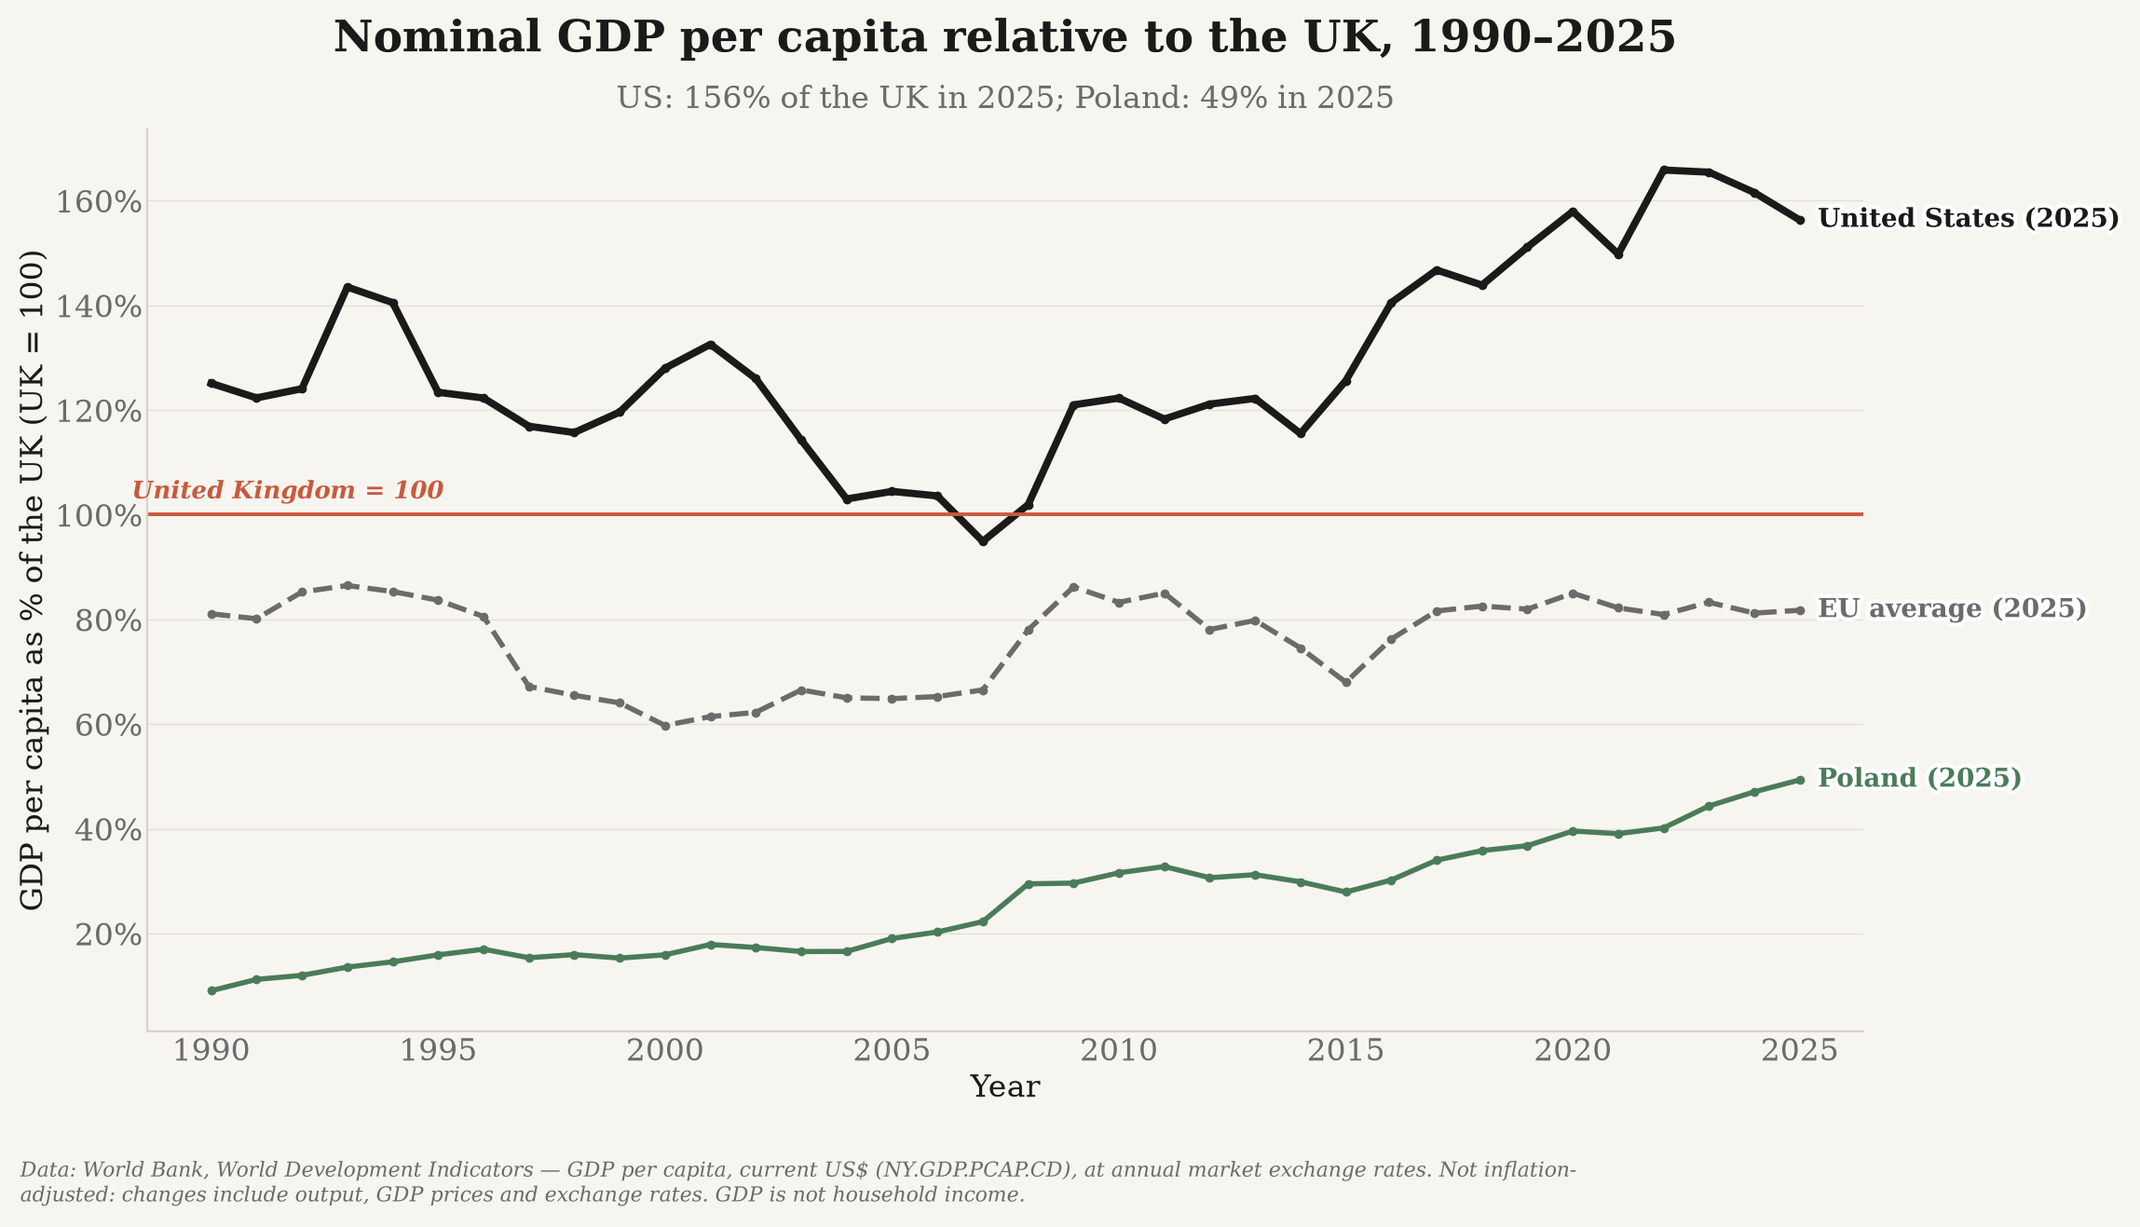
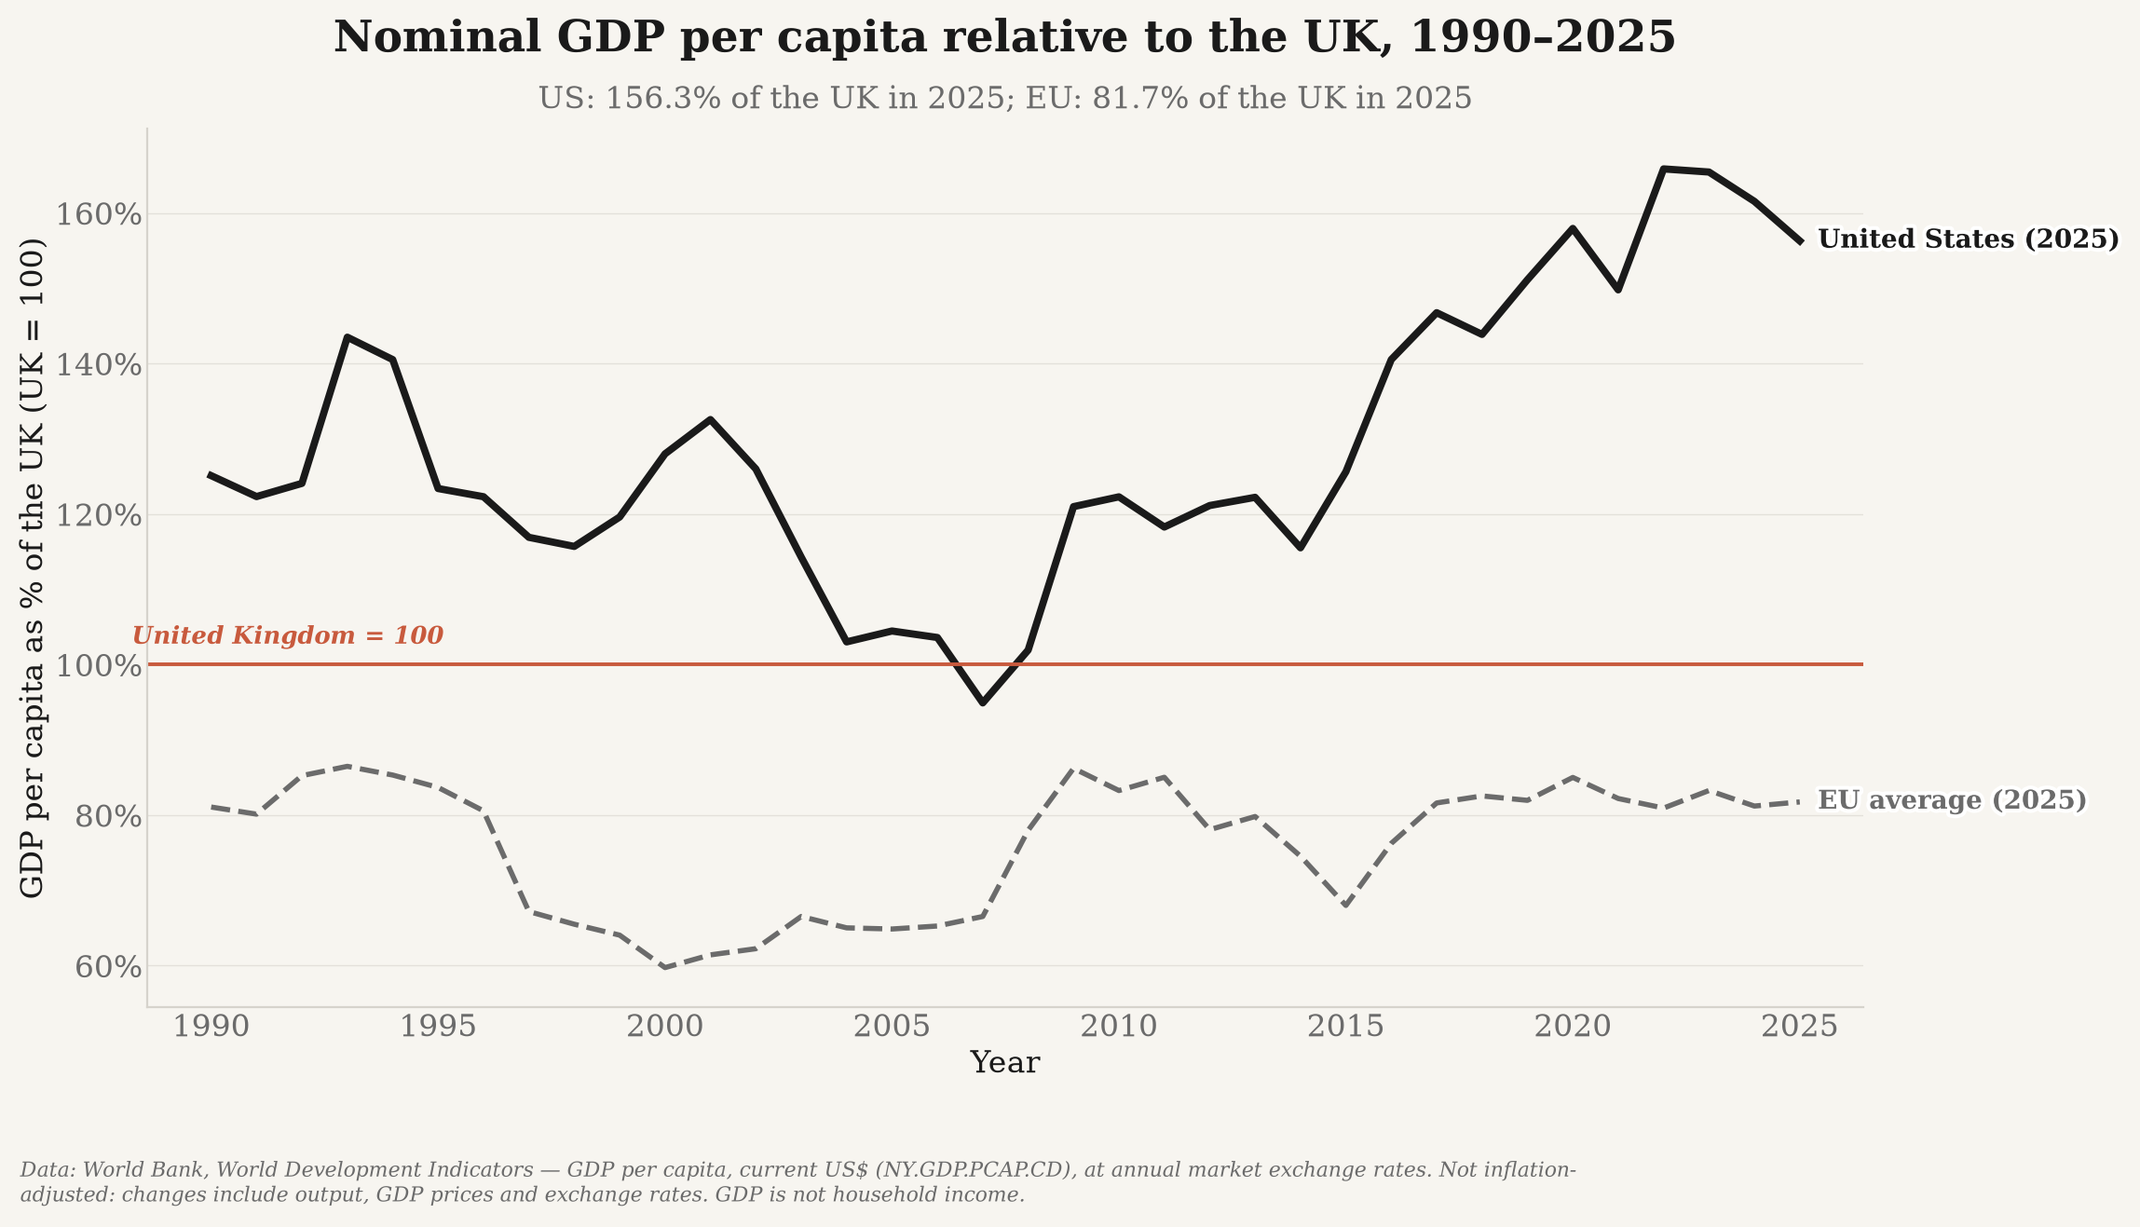
Restore single-panel GDP comparisons with US and EU references

diff --git a/europe_data/plot_uk_decline.py b/europe_data/plot_uk_decline.py
@@ -11,7 +11,9 @@ Figures:
   - gdp_per_capita_real_over_time.png  National-accounts real growth, 2007 = 100
   - gdp_per_capita_nominal_over_time.png  Nominal valuations at annual market FX
   - uk_gdp_relative_to_peers.png       Peer nominal GDP/capita as a share of the UK
-  - uk_gdp_relative_to_peers_simple.png  US, EU and Poland only
+  - uk_gdp_relative_to_peers_simple.png  US and EU nominal GDP, UK = 100
+  - uk_real_gdp_relative_to_peers.png    US and EU real PPP volumes, UK = 100
+  - uk_ppp_gdp_relative_to_peers.png     US and EU current-price PPP GDP, UK = 100
   - median_disposable_income_pps.png   Median income (Eurostat PPS), UK ends ~2018
   - median_disposable_income_oecd.png  Median income (OECD, household-consumption PPP)
   - median_income_pip.png              PIP median income (2021 PPP $/day), UK to ~2021
@@ -194,16 +196,36 @@ def fig_median_income_oecd(df: pd.DataFrame, out: pathlib.Path) -> None:
 
 
 def fig_uk_relative(
-    df: pd.DataFrame, out: pathlib.Path, *, simplified: bool = False,
+    df: pd.DataFrame, out: pathlib.Path, *, simplified: bool = False, basis: str = "nominal",
 ) -> None:
-    metric = NOMINAL_GDP_METRIC
+    metric, title, source, comparison_filename = {
+        "nominal": (
+            NOMINAL_GDP_METRIC, "Nominal GDP per capita relative to the UK",
+            SOURCE_NOMINAL_GDP, "uk_gdp_relative_to_peers_simple.png",
+        ),
+        "real": (
+            "gdp_per_capita_ppp_constant", "Real GDP per person relative to the UK",
+            "Data: World Bank WDI, NY.GDP.PCAP.PP.KD. Constant 2021 international dollars "
+            "(ICP 2021 PPP benchmark): benchmark-valued output volumes, not current market dollars. "
+            "Real output growth at fixed purchasing power parities; annual market FX is not applied. "
+            "Country levels depend on the fixed benchmark; the EU aggregate uses PPP valuation weights.",
+            "uk_real_gdp_relative_to_peers.png",
+        ),
+        "ppp": (
+            "gdp_per_capita_ppp_current", "GDP per person at current PPPs relative to the UK",
+            "Data: World Bank WDI, NY.GDP.PCAP.PP.CD. Current international dollars (ICP 2021 vintage). "
+            "Each year's purchasing power parities and prices, not annual market exchange rates. "
+            "Same-year output comparisons; movements include changing price weights and parity estimates, "
+            "not just real growth. GDP is not household income.",
+            "uk_ppp_gdp_relative_to_peers.png",
+        ),
+    }[basis]
     # Match the coverage of the companion World Bank PPP comparison.
     start = 1990
     uk = _series(df, "United Kingdom", metric).set_index("year")[metric]
     uk = uk[uk.index >= start]
     fig, ax = plt.subplots(figsize=(11.5, 6.5))
 
-    # These are dollar-valued GDP ratios, not household-income or real-growth ratios.
     refs = [
         ("United States", SUBSTACK_TEXT, "-", 2.8, "United States"),
         ("Germany", SUBSTACK_BLUE, "-", 2.0, "Germany"),
@@ -211,45 +233,52 @@ def fig_uk_relative(
         ("European Union", SUBSTACK_MUTED, "--", 2.0, "EU average"),
         ("Poland", SUBSTACK_GREEN, "-", 2.0, "Poland"),
     ]
-    if simplified:
-        refs = [ref for ref in refs if ref[0] not in {"Germany", "France"}]
+    if simplified or basis != "nominal":
+        refs = [ref for ref in refs if ref[0] in {"United States", "European Union"}]
     plotted_years = []
     labels = []
+    ratios = {}
     for country, color, ls, lw, label in refs:
         ref = _series(df, country, metric).set_index("year")[metric]
         ratio = (ref / uk).dropna() * 100.0  # peer as % of the UK
         if ratio.empty:
+            if simplified or basis != "nominal":
+                raise ValueError(f"Missing {country} observations for the {basis} UK comparison")
             continue
         plotted_years.extend(ratio.index)
+        ratios[country] = ratio
         annual = with_year_gaps(ratio)
         ax.plot(annual.index, annual.values, color=color, linewidth=lw, linestyle=ls, label=label,
-                marker="o", markersize=2.5)
+                marker="o" if len(ratio) == 1 else None, markersize=2.5)
         labels.append((ratio.iloc[-1], f"{label} ({ratio.index[-1]})", color))
     if not plotted_years:
         plt.close(fig)
-        raise ValueError("no overlapping nominal GDP observations from 1990 onward")
+        raise ValueError(f"no overlapping {basis} GDP observations from 1990 onward")
     labelled_ends(ax, labels, min_gap=5.0, x=max(plotted_years), fontsize=10)
 
     ax.axhline(100, color=SUBSTACK_ACCENT, linewidth=1.4, linestyle="-")
     ax.text(ax.get_xlim()[0], 102, "United Kingdom = 100", fontsize=9.5,
             color=SUBSTACK_ACCENT, style="italic", fontweight="bold", va="bottom")
 
-    us = ((_series(df, "United States", metric).set_index("year")[metric] / uk).dropna() * 100)
-    pl = ((_series(df, "Poland", metric).set_index("year")[metric] / uk).dropna() * 100)
-
     ax.set_xlabel("Year", labelpad=2)
+    ax.xaxis.set_major_locator(mtick.MaxNLocator(nbins=9, integer=True))
     ax.set_ylabel("GDP per capita as % of the UK (UK = 100)", labelpad=2)
     ax.yaxis.set_major_formatter(mtick.FuncFormatter(lambda v, _: f"{v:.0f}%"))
     # Centered title + centered subtitle (the subtitle carries the two turning-point facts,
     # so it stays aligned under the headline instead of drifting to a corner).
-    ax.set_title(f"Nominal GDP per capita relative to the UK, "
+    ax.set_title(f"{title}, "
                  f"{min(plotted_years)}\u2013{max(plotted_years)}",
                  fontweight="bold", pad=30)
     facts = []
-    if not us.empty:
-        facts.append(f"US: {us.iloc[-1]:.0f}% of the UK in {us.index[-1]}")
-    if not pl.empty:
-        facts.append(f"Poland: {pl.iloc[-1]:.0f}% in {pl.index[-1]}")
+    fact_peers = (
+        (("United States", "US"), ("European Union", "EU"))
+        if simplified or basis != "nominal" else
+        (("United States", "US"), ("Poland", "Poland"))
+    )
+    for country, label in fact_peers:
+        ratio = ratios.get(country)
+        if ratio is not None:
+            facts.append(f"{label}: {ratio.iloc[-1]:.1f}% of the UK in {ratio.index[-1]}")
     if facts:
         ax.text(0.5, 1.015, "; ".join(facts),
                 transform=ax.transAxes, ha="center", va="bottom",
@@ -258,11 +287,11 @@ def fig_uk_relative(
     ax.set_axisbelow(True)
     ax.tick_params(axis="both", pad=2)
     ax.margins(x=0.04)
-    _source_note(fig, SOURCE_NOMINAL_GDP)
+    _source_note(fig, source)
     plt.tight_layout(pad=0.5)
-    plt.subplots_adjust(bottom=0.15)
+    plt.subplots_adjust(bottom=0.17)
     filename = (
-        "uk_gdp_relative_to_peers_simple.png" if simplified else "uk_gdp_relative_to_peers.png"
+        comparison_filename if simplified or basis != "nominal" else "uk_gdp_relative_to_peers.png"
     )
     save_chart(fig, out / filename, dpi=200, bbox_inches="tight")
     plt.close(fig)
@@ -299,6 +328,8 @@ def main(argv: list[str] | None = None) -> int:
     )
     fig_uk_relative(df, out)
     fig_uk_relative(df, out, simplified=True)
+    fig_uk_relative(df, out, simplified=True, basis="real")
+    fig_uk_relative(df, out, simplified=True, basis="ppp")
     fig_median_income_oecd(df, out)
     _line_chart(
         df, "median_disposable_income",

diff --git a/tests/test_gdp_comparisons.py b/tests/test_gdp_comparisons.py
@@ -112,3 +112,54 @@ def test_failed_currency_check_preserves_saved_europe_inputs(frame, tmp_path, mo
         fetch_data.main(["--sources", "worldbank", "--out", str(tmp_path)])
     assert saved.read_text() == "preserved published inputs\n"
     assert not (tmp_path / "gdp_per_capita_ppp.csv").exists()
+
+
+@pytest.mark.parametrize(("basis", "metric", "filename"), [
+    ("nominal", gdp.NOMINAL, "uk_gdp_relative_to_peers_simple"),
+    ("real", gdp.CONSTANT_PPP, "uk_real_gdp_relative_to_peers"),
+    ("ppp", gdp.CURRENT_PPP, "uk_ppp_gdp_relative_to_peers"),
+])
+def test_single_panel_comparisons_retain_us_and_eu_with_correct_measure(
+    tmp_path, monkeypatch, basis, metric, filename,
+):
+    from europe_data import plot_uk_decline as plots
+
+    frame = pd.DataFrame([
+        {"country": country, "year": year, gdp.NOMINAL: nominal,
+         gdp.CONSTANT_PPP: real, gdp.CURRENT_PPP: ppp}
+        for country, nominal, real, ppp in (
+            ("United Kingdom", 50_000, 60_000, 70_000),
+            ("United States", 80_000, 90_000, 100_000),
+            ("European Union", 40_000, 50_000, 60_000),
+            ("Germany", 1, 1, 1), ("France", 1, 1, 1), ("Poland", 1, 1, 1),
+        )
+        for year in (2023, 2025)
+    ])
+    captured = []
+    original = plots.save_chart
+
+    def save(fig, *args, **kwargs):
+        captured.append(fig)
+        original(fig, *args, **kwargs)
+
+    monkeypatch.setattr(plots, "save_chart", save)
+    plots.fig_uk_relative(frame, tmp_path, simplified=True, basis=basis)
+    fig = captured[0]
+    ax = fig.axes[0]
+    assert [line.get_label() for line in ax.lines[:2]] == ["United States", "EU average"]
+    assert len(fig.axes) == 1 and len(ax.lines) == 3
+    uk = frame.loc[frame.country == "United Kingdom", metric].iloc[0]
+    for line, country in zip(ax.lines[:2], ("United States", "European Union")):
+        value = frame.loc[frame.country == country, metric].iloc[0]
+        assert line.get_ydata()[[0, -1]] == pytest.approx([100 * value / uk] * 2)
+        assert np.isnan(line.get_ydata()[1])
+    assert list(ax.lines[-1].get_ydata()) == [100, 100]
+    data = json.loads((tmp_path / f"{filename}.json").read_text())
+    assert [item["label"] for item in data["series"]] == ["United States", "EU average"]
+    canvas = FigureCanvasAgg(fig)
+    canvas.draw()
+    renderer = canvas.get_renderer()
+    assert fig.texts[0].get_window_extent(renderer).y1 < ax.xaxis.label.get_window_extent(renderer).y0
+    missing_eu = frame.loc[frame.country != "European Union"]
+    with pytest.raises(ValueError, match="European Union"):
+        plots.fig_uk_relative(missing_eu, tmp_path, simplified=True, basis=basis)

diff --git a/tests/test_pipeline.py b/tests/test_pipeline.py
@@ -150,12 +150,15 @@ def test_gdp_figures_plot_distinct_volume_and_nominal_series(monkeypatch, tmp_pa
     for country, volumes, nominal in [
         ("United Kingdom", [40_000, 44_000], [50_000, 100_000]),
         ("United States", [80_000, 96_000], [60_000, 120_000]),
+        ("European Union", [60_000, 70_000], [55_000, 110_000]),
     ]:
         for i, year in enumerate([2007, 2025]):
             row = {metric: None for metric in combine.METRIC_ORDER}
             row.update(country=country, year=year,
                        gdp_per_capita_constant_usd=volumes[i],
                        gdp_per_capita_nominal_usd=nominal[i],
+                       gdp_per_capita_ppp_constant=volumes[i] * 1.1,
+                       gdp_per_capita_ppp_current=nominal[i] * 1.3,
                        gdp_per_capita_real_usd=999_000 + i)
             rows.append(row)
     data = pd.DataFrame(rows)
@@ -329,7 +332,7 @@ def test_nominal_gdp_ratio_uses_only_shared_years_and_dates_each_peer(monkeypatc
     assert "2023\u20132025" in ax.get_title()
 
 
-def test_simplified_gdp_ratio_omits_only_germany_and_france(monkeypatch, tmp_path):
+def test_simplified_gdp_ratio_shows_only_us_and_eu(monkeypatch, tmp_path):
     import pandas as pd
     from europe_data import plot_uk_decline as plots
 
@@ -351,11 +354,11 @@ def test_simplified_gdp_ratio_omits_only_germany_and_france(monkeypatch, tmp_pat
     ]
     original, simplified = [figure.axes[0] for _, figure in saved]
     assert len(original.lines) == 6
-    assert len(simplified.lines) == 4
-    assert [line.get_ydata()[0] for line in simplified.lines[:-1]] == [160, 82, 50]
+    assert len(simplified.lines) == 3
+    assert [line.get_ydata()[0] for line in simplified.lines[:-1]] == [160, 82]
     labels = " ".join(text.get_text() for text in simplified.texts)
     assert "United States (2025)" in labels
-    assert "EU average (2025)" in labels and "Poland (2025)" in labels
+    assert "EU average (2025)" in labels and "Poland" not in labels
     assert "Germany" not in labels and "France" not in labels
     assert simplified.get_title() == original.get_title()
 

diff --git a/scripts/build_site.py b/scripts/build_site.py
@@ -54,8 +54,8 @@ class Analysis:
 
 ANALYSES = (
     Analysis("gdp-income", "GDP & incomes", "Economy", "europe_data", "gdp_income",
-             ("us_uk_gdp_measures.png", "gdp_per_capita_nominal_over_time.png",
-              "gdp_per_capita_real_over_time.png",
+             ("uk_gdp_relative_to_peers_simple.png", "uk_real_gdp_relative_to_peers.png",
+              "uk_ppp_gdp_relative_to_peers.png",
               "median_disposable_income_oecd.png"),
              "Real output, nominal valuations and household incomes answer different questions."),
     Analysis("purchasing-power", "Purchasing power", "Economy", "ppp_data", "ppp",
@@ -159,7 +159,9 @@ CHART_TITLES = {
     "median_disposable_income_oecd": "Median disposable income, adjusted for household size and purchasing power",
     "median_income_pip": "Median daily income or consumption, adjusted for purchasing power",
     "uk_gdp_relative_to_peers": "Other countries' nominal GDP per person relative to the UK at market exchange rates",
-    "uk_gdp_relative_to_peers_simple": "US, EU and Polish GDP per person relative to the UK at market exchange rates",
+    "uk_gdp_relative_to_peers_simple": "Nominal GDP per person: US and EU relative to the UK",
+    "uk_real_gdp_relative_to_peers": "Real GDP per person: US and EU relative to the UK at fixed 2021 purchasing power parities",
+    "uk_ppp_gdp_relative_to_peers": "GDP per person at current purchasing power parities: US and EU relative to the UK",
     "london_gdp_per_head_vs_uk": "London GDP per person relative to the UK",
     "london_share_of_uk_gdp": "London's share of UK GDP",
     "asylum_applications": "Applications for asylum",

diff --git a/europe_data/README.md b/europe_data/README.md
@@ -20,7 +20,18 @@ longer the headline real-output chart. Its arithmetic is retained for tuition co
 
 ## Headline results (figures in [`../outputs/`](../outputs))
 
-### US versus UK: the measures side by side
+### US and EU relative to the UK: separate measures
+
+The public page uses the same single-panel layout for all three comparisons:
+**US and EU lines, with the UK fixed at 100**. Germany, France and Poland are not
+separate lines in these public GDP comparisons. The EU is the published World Bank
+aggregate, not an average reconstructed from selected countries.
+
+![Nominal GDP per person: US and EU relative to the UK](../outputs/gdp_income/uk_gdp_relative_to_peers_simple.png)
+![Real GDP per person: US and EU relative to the UK at fixed 2021 PPPs](../outputs/gdp_income/uk_real_gdp_relative_to_peers.png)
+![Current-PPP GDP per person: US and EU relative to the UK](../outputs/gdp_income/uk_ppp_gdp_relative_to_peers.png)
+
+The four-panel UK/US and exchange-rate audit remains a supplemental export:
 
 ![US versus UK: nominal GDP, current PPP, real PPP volumes and annual sterling exchange rates](../outputs/gdp_income/us_uk_gdp_measures.png)
 
@@ -61,7 +72,7 @@ constant-PPP and national-accounts volumes must have the same growth within 0.2%
 ### Real GDP per person growth, 2007 = 100 (national-accounts volumes)
 ![Real GDP per person growth, each economy indexed to 2007](../outputs/gdp_income/gdp_per_capita_real_over_time.png)
 
-The chart now indexes each economy to its own 2007 observation. This removes the
+This supplemental chart indexes each economy to its own 2007 observation. This removes the
 arbitrary fixed-base dollar-level gap and makes the real-growth question explicit:
 **it is an index, not nominal dollars or a cross-country living-standard level**.
 
@@ -79,9 +90,9 @@ That much larger relative change includes GDP-price and exchange-rate effects.
 These current-dollar levels are explicitly not inflation-adjusted.
 
 ### UK relative to its peers (US, Germany, France, EU average, Poland)
-The supplemental simplified version shows the US, EU average and Poland:
+The public simplified version shows only the US and EU aggregate:
 
-![US, EU and Polish nominal GDP per person relative to the UK](../outputs/gdp_income/uk_gdp_relative_to_peers_simple.png)
+![US and EU nominal GDP per person relative to the UK](../outputs/gdp_income/uk_gdp_relative_to_peers_simple.png)
 
 The full comparison remains available:
 
@@ -218,7 +229,7 @@ python3 -m venv .venv && ./.venv/bin/pip install -r ../requirements.txt
 ```
 
 Outputs: per-source CSVs, `europe_combined_long.csv`, `europe_combined_wide.csv`, and
-`manifest.json` in `../data/`; eight PNGs in `../outputs/gdp_income/`.
+`manifest.json` in `../data/`; ten PNGs in `../outputs/gdp_income/`.
 The derived OECD source table (`oecd_median_income_ppp.csv`) and combined wide table
 are tracked for reproducible offline chart generation; other raw downloads are git-ignored.
 

diff --git a/ppp_data/README.md b/ppp_data/README.md
@@ -58,9 +58,11 @@ This is a genuine qualification of the headline story, and it is reported as suc
 ### The three views side by side
 ![UK vs US at market rates, at PPP and in real volume](../outputs/ppp/ppp_vs_market_fx_uk_us.png)
 
-The GDP page also provides a [four-panel comparison](../outputs/gdp_income/us_uk_gdp_measures.png)
-using the **opposite, explicitly labelled direction (US / UK)** alongside actual annual
-sterling exchange rates. In 2025, US GDP per head is 156.3% of the UK in nominal
+The GDP page provides separate nominal, real-volume and current-PPP charts with
+**US and EU relative to the UK (UK = 100)**. A supplemental
+[four-panel comparison](../outputs/gdp_income/us_uk_gdp_measures.png) retains the
+UK/US audit alongside actual annual sterling exchange rates.
+In 2025, US GDP per head is 156.3% of the UK in nominal
 market dollars, 139.3% at current PPPs and 142.5% on the fixed-2021 volume benchmark.
 The 165.9% nominal comparison refers to 2022. Do not mix these years, valuation
 bases or reciprocal ratios; 156.3% of the UK means 56.3% higher, not 156.3% higher.
